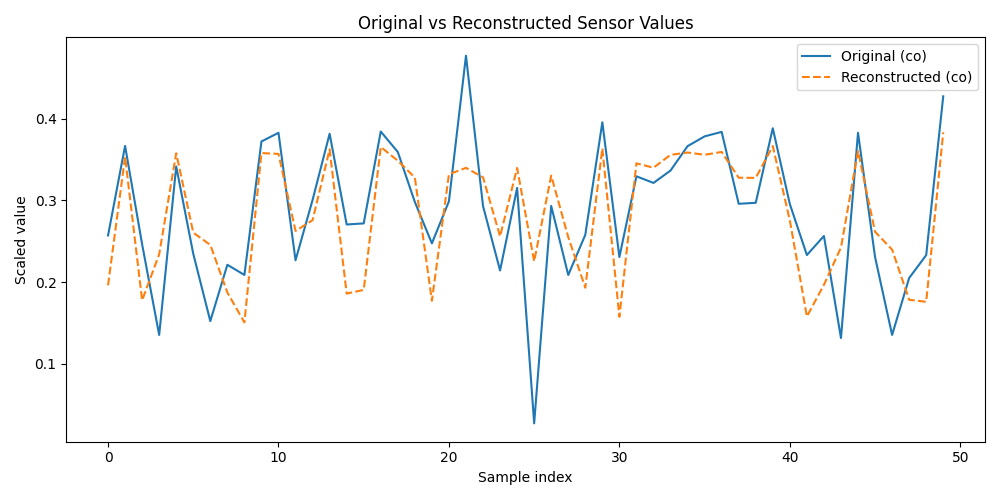
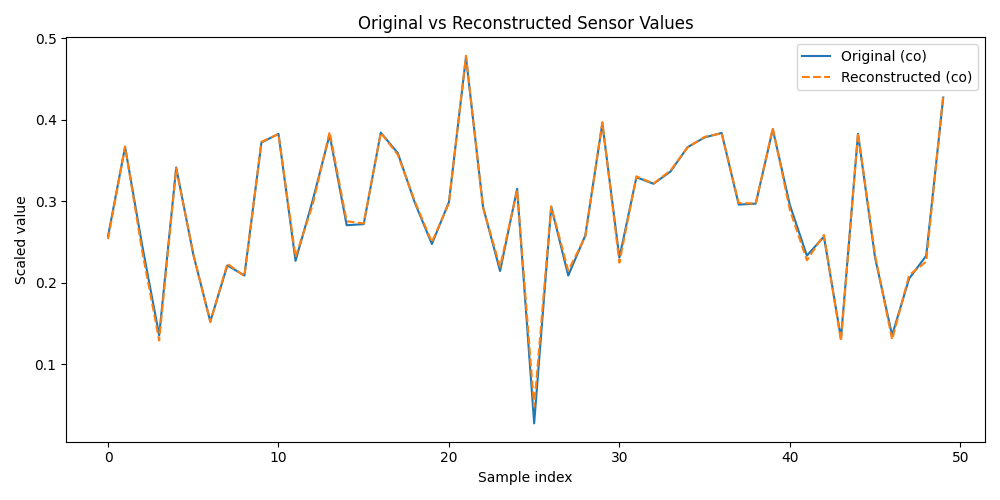
Optimized the model further

diff --git a/src/train.py b/src/train.py
@@ -1,19 +1,27 @@
 from pathlib import Path
-from typing import List
+from typing import Dict, List, Tuple
 
+import matplotlib.pyplot as plt
 import numpy as np
 import torch
 import torch.nn as nn
 from torch.utils.data import DataLoader, TensorDataset
+from sklearn.model_selection import train_test_split
 
 from src.model import Autoencoder
 
 
 PROCESSED_DIR = Path("data/processed")
 MODEL_PATH = Path("models/autoencoder.pth")
+OUTPUT_DIR = Path("outputs")
 BATCH_SIZE = 32
 LEARNING_RATE = 0.001
-EPOCHS = 50
+EPOCHS = 100
+WEIGHT_DECAY = 1e-5
+VALIDATION_SPLIT = 0.2
+EARLY_STOPPING_PATIENCE = 10
+SCHEDULER_STEP_SIZE = 30
+SCHEDULER_GAMMA = 0.5
 
 
 def load_processed_data() -> np.ndarray:
@@ -21,47 +29,122 @@ def load_processed_data() -> np.ndarray:
     train_path = PROCESSED_DIR / "X_train.npy"
     if not train_path.exists():
         raise FileNotFoundError(f"Processed training data not found at: {train_path}")
-    return np.load(train_path)
+    return np.load(train_path).astype(np.float32)
 
 
-def to_dataloader(data: np.ndarray, batch_size: int = BATCH_SIZE) -> DataLoader:
+def to_dataloader(data: np.ndarray, batch_size: int = BATCH_SIZE, shuffle: bool = True) -> DataLoader:
     """Convert numpy data to a PyTorch DataLoader."""
     tensor = torch.tensor(data, dtype=torch.float32)
     dataset = TensorDataset(tensor)
-    return DataLoader(dataset, batch_size=batch_size, shuffle=True)
+    return DataLoader(dataset, batch_size=batch_size, shuffle=shuffle)
 
 
-def train_autoencoder() -> List[float]:
-    """Train the autoencoder and save model weights."""
-    x_train = load_processed_data()
-    MODEL_PATH.parent.mkdir(parents=True, exist_ok=True)
-    device = torch.device("cuda" if torch.cuda.is_available() else "cpu")
-    model = Autoencoder(input_dim=6, latent_dim=3).to(device)
-    criterion = nn.MSELoss()
-    optimizer = torch.optim.Adam(model.parameters(), lr=LEARNING_RATE)
+def split_train_validation(
+    x_train: np.ndarray, validation_split: float = VALIDATION_SPLIT, random_state: int = 42
+) -> Tuple[np.ndarray, np.ndarray]:
+    """Create train/validation split for early stopping and monitoring."""
+    x_train_split, x_val_split = train_test_split(
+        x_train, test_size=validation_split, random_state=random_state, shuffle=True
+    )
+    return x_train_split, x_val_split
 
-    dataloader = to_dataloader(x_train, batch_size=BATCH_SIZE)
-    losses: List[float] = []
 
-    for epoch in range(1, EPOCHS + 1):
-        model.train()
-        running_loss = 0.0
+def _run_epoch(
+    model: Autoencoder, dataloader: DataLoader, criterion: nn.Module, optimizer=None, device=None
+) -> float:
+    """Run one training or validation epoch and return average loss."""
+    training = optimizer is not None
+    model.train(mode=training)
+    running_loss = 0.0
 
-        for (batch_x,) in dataloader:
-            batch_x = batch_x.to(device)
-            reconstructed = model(batch_x)
-            loss = criterion(reconstructed, batch_x)
+    for (batch_x,) in dataloader:
+        batch_x = batch_x.to(device)
+        reconstructed = model(batch_x)
+        loss = criterion(reconstructed, batch_x)
 
+        if training:
             optimizer.zero_grad()
             loss.backward()
             optimizer.step()
 
-            running_loss += loss.item()
+        running_loss += loss.item()
 
-        epoch_loss = running_loss / max(len(dataloader), 1)
-        losses.append(epoch_loss)
-        print(f"Epoch [{epoch}/{EPOCHS}] - Loss: {epoch_loss:.6f}")
+    return running_loss / max(len(dataloader), 1)
 
-    torch.save(model.state_dict(), MODEL_PATH)
-    print(f"Training complete. Model saved to: {MODEL_PATH}")
-    return losses
+
+def _plot_training_curves(history: Dict[str, List[float]], save_path: Path) -> None:
+    """Save training/validation loss curves."""
+    plt.figure(figsize=(8, 5))
+    plt.plot(history["train_loss"], label="Train Loss")
+    plt.plot(history["val_loss"], label="Validation Loss")
+    plt.title("Training and Validation Loss")
+    plt.xlabel("Epoch")
+    plt.ylabel("MSE Loss")
+    plt.legend()
+    plt.tight_layout()
+    plt.savefig(save_path)
+    plt.close()
+
+
+def train_autoencoder() -> Dict[str, List[float]]:
+    """Train the autoencoder with validation tracking and early stopping."""
+    x_train = load_processed_data()
+    x_train_split, x_val_split = split_train_validation(x_train)
+
+    MODEL_PATH.parent.mkdir(parents=True, exist_ok=True)
+    OUTPUT_DIR.mkdir(parents=True, exist_ok=True)
+
+    device = torch.device("cuda" if torch.cuda.is_available() else "cpu")
+    model = Autoencoder(input_dim=6, hidden_dims=[4, 2]).to(device)
+    criterion = nn.MSELoss()
+    optimizer = torch.optim.Adam(
+        model.parameters(), lr=LEARNING_RATE, weight_decay=WEIGHT_DECAY
+    )
+    # Reduce learning rate over time for smoother convergence.
+    scheduler = torch.optim.lr_scheduler.StepLR(
+        optimizer, step_size=SCHEDULER_STEP_SIZE, gamma=SCHEDULER_GAMMA
+    )
+
+    train_loader = to_dataloader(x_train_split, batch_size=BATCH_SIZE, shuffle=True)
+    val_loader = to_dataloader(x_val_split, batch_size=BATCH_SIZE, shuffle=False)
+
+    history: Dict[str, List[float]] = {"train_loss": [], "val_loss": []}
+    best_val_loss = float("inf")
+    patience_counter = 0
+
+    for epoch in range(1, EPOCHS + 1):
+        train_loss = _run_epoch(
+            model=model,
+            dataloader=train_loader,
+            criterion=criterion,
+            optimizer=optimizer,
+            device=device,
+        )
+        with torch.no_grad():
+            val_loss = _run_epoch(
+                model=model, dataloader=val_loader, criterion=criterion, device=device
+            )
+
+        history["train_loss"].append(train_loss)
+        history["val_loss"].append(val_loss)
+        print(
+            f"Epoch [{epoch}/{EPOCHS}] - Train Loss: {train_loss:.6f} - "
+            f"Val Loss: {val_loss:.6f} - LR: {optimizer.param_groups[0]['lr']:.6f}"
+        )
+
+        # Early stopping: keep the best model based on validation loss.
+        if val_loss < best_val_loss:
+            best_val_loss = val_loss
+            patience_counter = 0
+            torch.save(model.state_dict(), MODEL_PATH)
+        else:
+            patience_counter += 1
+            if patience_counter >= EARLY_STOPPING_PATIENCE:
+                print("Early stopping triggered.")
+                break
+
+        scheduler.step()
+
+    _plot_training_curves(history, OUTPUT_DIR / "loss_curve.png")
+    print(f"Training complete. Best model saved to: {MODEL_PATH}")
+    return history

diff --git a/src/evaluate.py b/src/evaluate.py
@@ -1,4 +1,5 @@
 from pathlib import Path
+from typing import Tuple
 
 import matplotlib.pyplot as plt
 import numpy as np
@@ -15,6 +16,24 @@ except ModuleNotFoundError:
 PROCESSED_DIR = Path("data/processed")
 MODEL_PATH = Path("models/autoencoder.pth")
 OUTPUT_DIR = Path("outputs")
+
+
+class LegacyAutoencoder(torch.nn.Module):
+    """Backward-compatible model for older 6->3->6 checkpoints."""
+
+    def __init__(self, input_dim: int = 6, latent_dim: int = 3) -> None:
+        super().__init__()
+        self.encoder = torch.nn.Sequential(
+            torch.nn.Linear(input_dim, latent_dim),
+            torch.nn.ReLU(),
+        )
+        self.decoder = torch.nn.Sequential(
+            torch.nn.Linear(latent_dim, input_dim),
+            torch.nn.Sigmoid(),
+        )
+
+    def forward(self, x: torch.Tensor) -> torch.Tensor:
+        return self.decoder(self.encoder(x))
 
 
 def load_test_data() -> np.ndarray:
@@ -34,29 +53,35 @@ def evaluate_model(plot_samples: int = 50) -> float:
 
     x_test_np = load_test_data()
     device = torch.device("cuda" if torch.cuda.is_available() else "cpu")
-    model = Autoencoder(input_dim=6, latent_dim=3).to(device)
-    model.load_state_dict(torch.load(MODEL_PATH, map_location=device))
+
+    model = load_model_for_checkpoint(device)
     model.eval()
 
     x_test = torch.tensor(x_test_np, dtype=torch.float32).to(device)
 
     with torch.no_grad():
         reconstructed = model(x_test)
-        # Global reconstruction error over all samples and features.
+        # Global reconstruction metrics over all samples and features.
         error = ((x_test - reconstructed) ** 2).mean()
         mse = error.item()
+        mae = (x_test - reconstructed).abs().mean().item()
 
         # Accuracy-like score requested: higher is better, lower error -> higher accuracy.
-        reconstruction_accuracy = 1 - error.item()
+        reconstruction_accuracy = max(0.0, 1 - mse)
 
         # Per-sample reconstruction error for threshold-based accuracy.
         sample_error = ((x_test - reconstructed) ** 2).mean(dim=1)
-        threshold = 0.01
-        accuracy_threshold = (sample_error < threshold).float().mean().item() * 100
+        best_threshold, best_threshold_accuracy = find_best_threshold(sample_error)
 
     print(f"Reconstruction Error (MSE): {mse:.6f}")
+    print(f"Mean Absolute Error (MAE): {mae:.6f}")
     print(f"Reconstruction Accuracy: {reconstruction_accuracy * 100:.2f}%")
-    print(f"Threshold Accuracy (error < {threshold}): {accuracy_threshold:.2f}%")
+    print(
+        "Threshold Accuracy "
+        f"(best threshold={best_threshold:.4f}): {best_threshold_accuracy:.2f}%"
+    )
+
+    plot_error_histogram(sample_error.cpu().numpy(), OUTPUT_DIR / "reconstruction_error_hist.png")
     plot_original_vs_reconstructed(
         x_test.cpu().numpy(),
         reconstructed.cpu().numpy(),
@@ -64,6 +89,25 @@ def evaluate_model(plot_samples: int = 50) -> float:
         max_samples=plot_samples,
     )
     return mse
+
+
+def load_model_for_checkpoint(device: torch.device) -> torch.nn.Module:
+    """Load checkpoint with either new or legacy architecture."""
+    state_dict = torch.load(MODEL_PATH, map_location=device)
+
+    # Try the current deep architecture first.
+    try:
+        model = Autoencoder(input_dim=6, hidden_dims=[4, 2]).to(device)
+        model.load_state_dict(state_dict)
+        print("Loaded model architecture: deep autoencoder (6->4->2->4->6)")
+        return model
+    except RuntimeError:
+        # Fallback for older checkpoints saved with the simple architecture.
+        legacy_model = LegacyAutoencoder(input_dim=6, latent_dim=3).to(device)
+        legacy_model.load_state_dict(state_dict)
+        print("Loaded model architecture: legacy autoencoder (6->3->6)")
+        print("Tip: retrain with python main.py to use the improved deep architecture.")
+        return legacy_model
 
 
 def plot_original_vs_reconstructed(
@@ -81,6 +125,34 @@ def plot_original_vs_reconstructed(
     plt.xlabel("Sample index")
     plt.ylabel("Scaled value")
     plt.legend()
+    plt.tight_layout()
+    plt.savefig(save_path)
+    plt.close()
+
+
+def find_best_threshold(sample_error: torch.Tensor) -> Tuple[float, float]:
+    """Search thresholds and return threshold with highest sample-level accuracy."""
+    # Dense threshold search to maximize threshold-based accuracy.
+    thresholds = np.linspace(0.001, 0.02, 200)
+    best_threshold = float(thresholds[0])
+    best_accuracy = -1.0
+
+    for threshold in thresholds:
+        accuracy = (sample_error < threshold).float().mean().item() * 100
+        if accuracy > best_accuracy:
+            best_accuracy = accuracy
+            best_threshold = float(threshold)
+
+    return best_threshold, best_accuracy
+
+
+def plot_error_histogram(sample_error: np.ndarray, save_path: Path) -> None:
+    """Plot distribution of per-sample reconstruction errors."""
+    plt.figure(figsize=(8, 5))
+    plt.hist(sample_error, bins=30)
+    plt.title("Histogram of Reconstruction Errors")
+    plt.xlabel("Per-sample MSE")
+    plt.ylabel("Frequency")
     plt.tight_layout()
     plt.savefig(save_path)
     plt.close()

diff --git a/src/model.py b/src/model.py
@@ -1,20 +1,30 @@
 import torch
 import torch.nn as nn
+from typing import List
 
 
 class Autoencoder(nn.Module):
-    """Simple 6->3->6 autoencoder for IoT sensor data."""
+    """Configurable symmetric autoencoder for IoT sensor data."""
 
-    def __init__(self, input_dim: int = 6, latent_dim: int = 3) -> None:
+    def __init__(self, input_dim: int = 6, hidden_dims: List[int] | None = None) -> None:
         super().__init__()
+        # Default architecture: 6 -> 4 -> 2 -> 4 -> 6
+        if hidden_dims is None:
+            hidden_dims = [4, 2]
+        if len(hidden_dims) != 2:
+            raise ValueError("hidden_dims must contain exactly two values, e.g. [4, 2].")
 
         self.encoder = nn.Sequential(
-            nn.Linear(input_dim, latent_dim),
+            nn.Linear(input_dim, hidden_dims[0]),
+            nn.ReLU(),
+            nn.Linear(hidden_dims[0], hidden_dims[1]),
             nn.ReLU(),
         )
 
         self.decoder = nn.Sequential(
-            nn.Linear(latent_dim, input_dim),
+            nn.Linear(hidden_dims[1], hidden_dims[0]),
+            nn.ReLU(),
+            nn.Linear(hidden_dims[0], input_dim),
             nn.Sigmoid(),
         )
 
